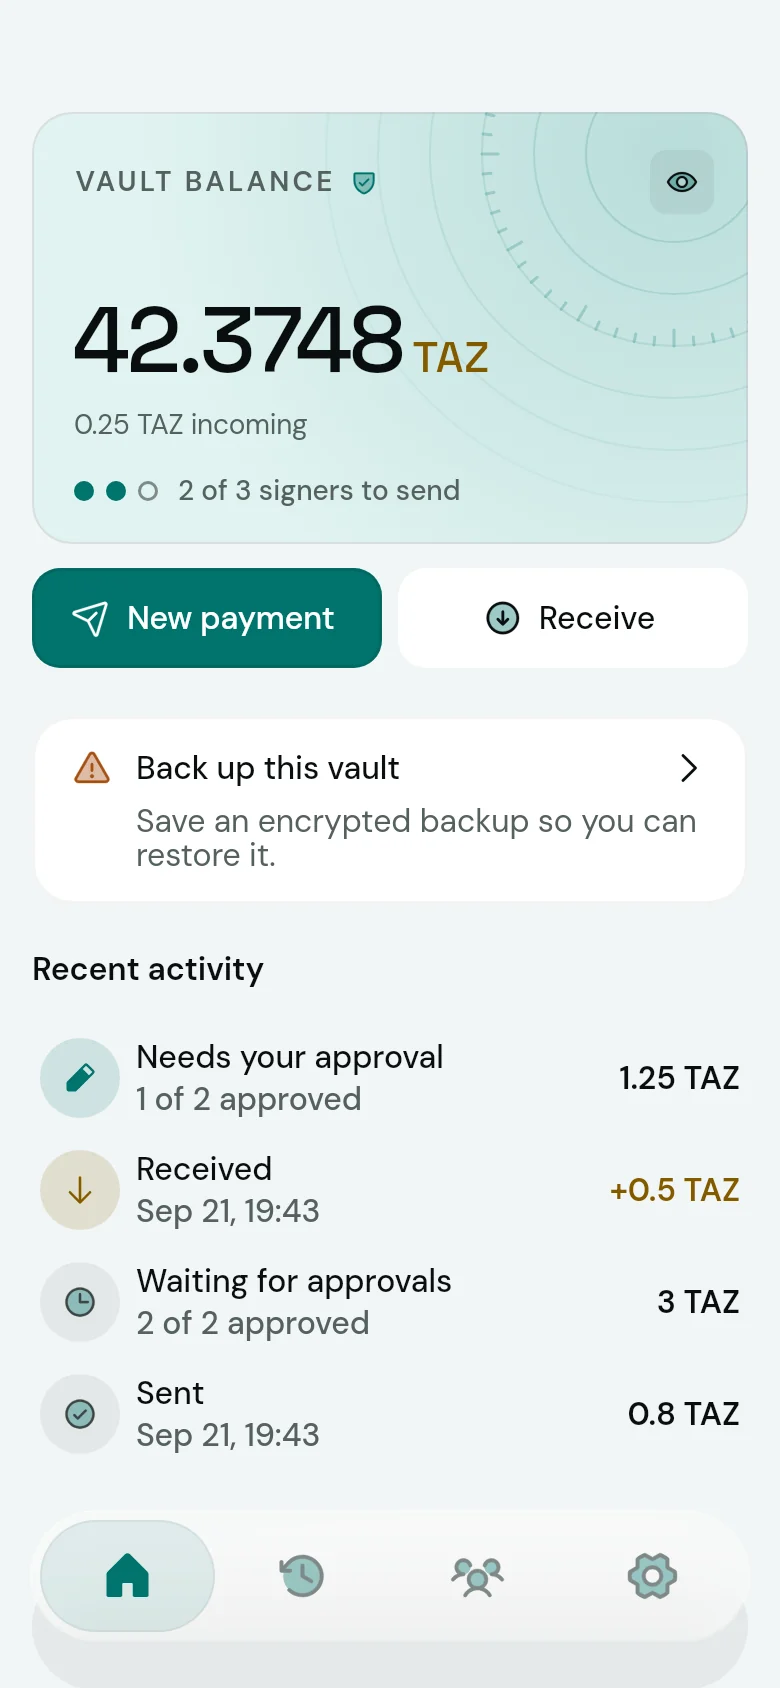
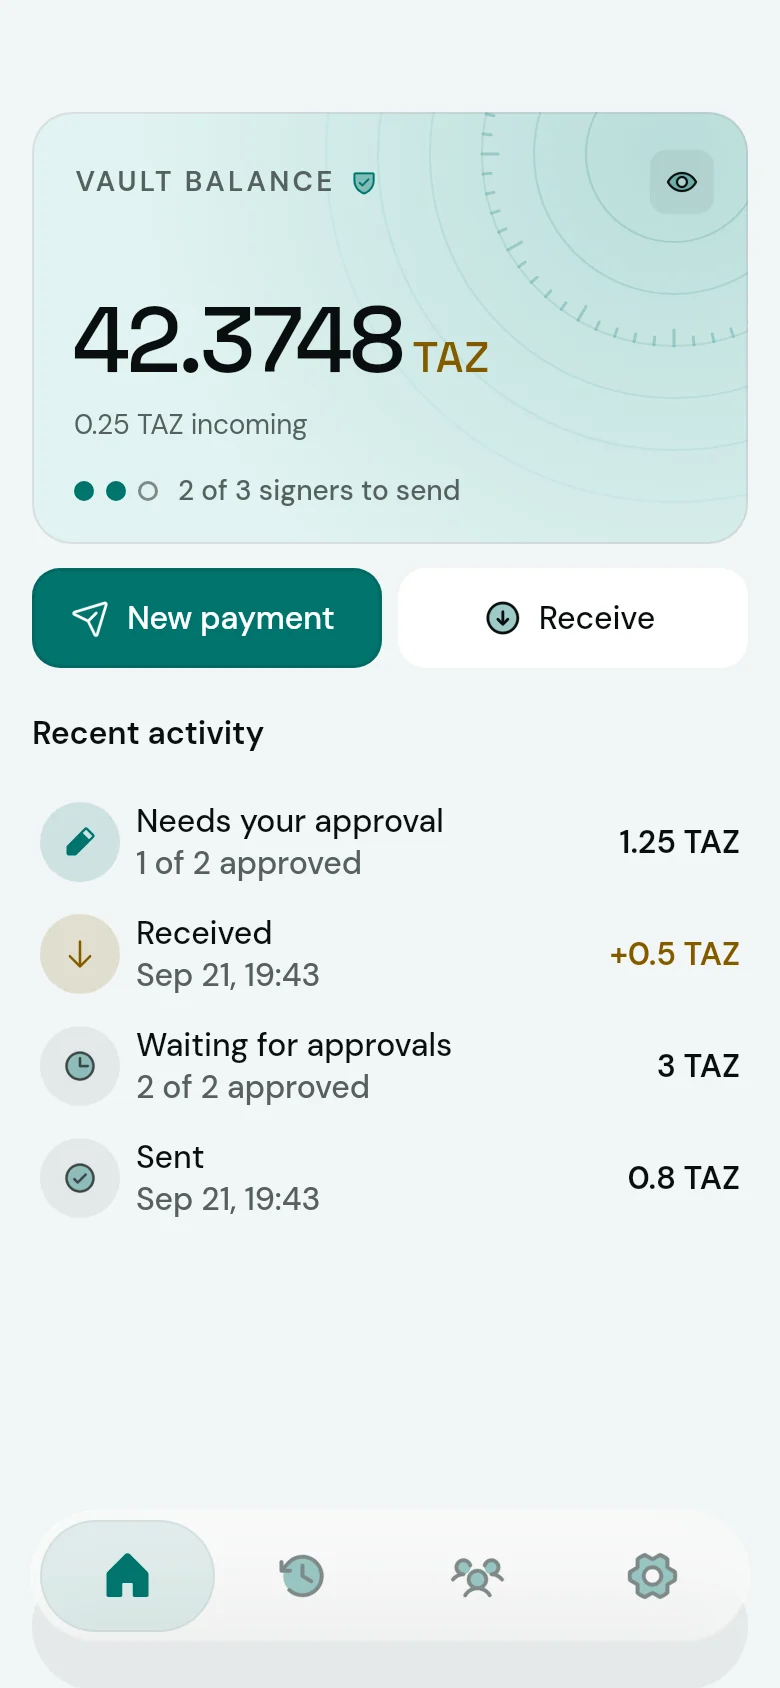
Site: the one-tap flow as live cards, and motion throughout
- Pillars replaced by Notified / One tap / Sent: the app's real
  notification wording, the Approve button with a tap ripple, the sent
  state. Emphasises how fast approving is, and that one tap signs.
- Home mockup without the backup notice (HOME_NOTICE=0 in the render).
- CSS-only motion: scroll-driven reveals (side phones fan out, flow
  cards rise, the idea fills with ink, the feature panel grows, copy and
  cards meet, FAQ cascades, vault drifts, ghost wordmark rises), loops in
  the live cards, hover lifts. Off with prefers-reduced-motion.

diff --git a/infra/site/src/styles/site.css b/infra/site/src/styles/site.css
@@ -286,8 +286,8 @@ code { font-size: 0.95em; }
 .phone.front { width: 320px; }
 .phone.side { width: 272px; margin-bottom: 40px; }
 
-/* Pillars. */
-.pillars {
+/* The one-tap flow: notified, one tap, sent. Live UI in tiles, animated on view. */
+.flow {
   display: grid;
   grid-template-columns: repeat(3, 1fr);
   max-width: var(--width);
@@ -295,20 +295,94 @@ code { font-size: 0.95em; }
   padding: 120px 16px 40px;
   text-align: center;
 }
-.pillars article { padding: 0 36px; }
-.pillars article + article { border-left: 1px solid var(--line); }
-.pillars img {
-  display: block;
-  width: 100%;
-  max-width: 260px;
-  height: auto;
-  aspect-ratio: 5 / 4;
-  object-fit: cover;
+.flow article { padding: 0 32px; }
+.flow article + article { border-left: 1px solid var(--line); }
+.flow h2 { font-size: 22px; letter-spacing: -0.01em; margin: 0 0 6px; }
+.flow article > p { color: var(--text-secondary); font-size: 16px; }
+
+.flow-tile {
+  display: grid;
+  place-items: center;
+  height: 220px;
   margin: 0 auto 28px;
-  border-radius: 24px;
+  max-width: 300px;
+  border-radius: 28px;
+  background: var(--stage);
+  padding: 20px;
+  text-align: left;
+  overflow: hidden;
 }
-.pillars h2 { font-size: 22px; letter-spacing: -0.01em; margin: 0 0 8px; }
-.pillars p { color: var(--text-secondary); font-size: 16px; max-width: 18em; margin: 0 auto; }
+
+.notif {
+  width: 100%;
+  background: #FFFFFF;
+  border-radius: 20px;
+  padding: 14px 16px;
+  box-shadow: 0 12px 30px -16px rgba(0, 40, 38, 0.35);
+  font-size: 13px;
+  line-height: 1.4;
+}
+.notif-app { display: flex; align-items: center; gap: 8px; color: var(--text-secondary); margin-bottom: 6px !important; font-size: 12px; }
+.notif-app time { margin-left: auto; }
+.notif-mark { width: 18px; height: 18px; }
+.notif-title { font-weight: 500; color: var(--text); }
+.notif-body { color: var(--text-secondary); }
+
+.tap { width: 100%; }
+.tap-button {
+  position: relative;
+  display: flex;
+  justify-content: center;
+  align-items: center;
+  gap: 8px;
+  padding: 16px;
+  border-radius: 16px;
+  background: var(--brand);
+  color: var(--brand-label);
+  font-weight: 500;
+  overflow: hidden;
+}
+.tap-ripple {
+  position: absolute;
+  left: 50%;
+  top: 50%;
+  width: 24px;
+  height: 24px;
+  margin: -12px 0 0 -12px;
+  border-radius: 50%;
+  background: rgba(255, 255, 255, 0.45);
+  opacity: 0;
+}
+.tap-note { font-size: 13px; color: var(--text-secondary); text-align: center; margin-top: 12px !important; }
+
+.sent { text-align: center; }
+.sent-check {
+  display: inline-grid;
+  place-items: center;
+  width: 52px;
+  height: 52px;
+  border-radius: 50%;
+  background: var(--card);
+  color: var(--brand);
+  margin-bottom: 12px !important;
+}
+.sent-check .icon { width: 24px; height: 24px; }
+.sent-amount { font-family: var(--display); font-size: 36px; letter-spacing: -0.03em; line-height: 1; }
+.sent-amount span { font-size: 17px; color: var(--value); letter-spacing: 0; }
+.sent-note { font-size: 13px; color: var(--text-secondary); margin-top: 8px !important; }
+
+/* Motion: the notification drops in, the button is tapped over and over, the check pops. */
+.tap-ripple { animation: tap 2.4s ease-out infinite; }
+.tap-button { animation: press 2.4s ease-out infinite; }
+@keyframes tap { 0%, 20% { opacity: 0; transform: scale(0.5); } 24% { opacity: 1; } 60%, 100% { opacity: 0; transform: scale(14); } }
+@keyframes press { 0%, 20%, 34%, 100% { transform: scale(1); } 24% { transform: scale(0.97); } }
+@keyframes drop { from { opacity: 0; transform: translateY(-70%) scale(0.96); } }
+@keyframes pop { 0% { opacity: 0; transform: scale(0.4); } 70% { transform: scale(1.12); } 100% { transform: scale(1); } }
+@supports (animation-timeline: view()) {
+  .notif { animation: drop both var(--rise); animation-timeline: view(); animation-range: entry 10% cover 35%; }
+  .sent-check { animation: pop both var(--rise); animation-timeline: view(); animation-range: entry 20% cover 40%; }
+  .sent-amount, .sent-note { animation: fade both linear; animation-timeline: view(); animation-range: entry 30% cover 40%; }
+}
 
 /* The idea. */
 .vision {
@@ -534,8 +608,8 @@ code { font-size: 0.95em; }
   .phones { gap: 16px; }
   .phone.front { width: 250px; }
   .phone.side { width: 200px; margin-bottom: 28px; }
-  .pillars { grid-template-columns: 1fr; gap: 56px; padding-top: 112px; }
-  .pillars article + article { border-left: 0; }
+  .flow { grid-template-columns: 1fr; gap: 56px; padding-top: 112px; }
+  .flow article + article { border-left: 0; }
   .panel { border-radius: 32px; padding: 88px 20px 24px; margin: 0 12px; }
   .feature { grid-template-columns: 1fr; gap: 40px; padding: 56px 4px; }
   .feature.flip .copy { order: 0; }
@@ -640,7 +714,105 @@ code { font-size: 0.95em; }
 @keyframes fade { from { opacity: 0; } }
 @keyframes rise { from { opacity: 0; transform: translateY(28px); } }
 
+/* More motion. Loops run everywhere; scroll-driven reveals only where the browser has
+   animation-timeline (elsewhere everything is simply shown). All off with reduced motion. */
+
+/* Buttons and links. */
+.pill { transition: transform 0.2s var(--rise), box-shadow 0.2s ease, filter 0.2s ease; }
+.pill:hover { transform: translateY(-2px); box-shadow: 0 12px 24px -12px rgba(0, 115, 108, 0.6); }
+.nav-side a { position: relative; }
+.nav-side a::after {
+  content: "";
+  position: absolute;
+  left: 0;
+  right: 0;
+  bottom: -4px;
+  height: 1.5px;
+  background: currentColor;
+  transform: scaleX(0);
+  transition: transform 0.25s var(--rise);
+}
+.nav-side a:hover::after { transform: scaleX(1); }
+
+/* Live cards in the feature panel. */
+.dots i:nth-child(2) { animation: vote 3.2s ease infinite; }
+@keyframes vote { 0%, 45% { background: transparent; border-color: var(--ink-text); } 55%, 90% { background: #51DDD2; border-color: #51DDD2; } 100% { background: transparent; border-color: var(--ink-text); } }
+.votes .approve { animation: glow 3.2s ease infinite; }
+@keyframes glow { 0%, 40%, 100% { box-shadow: 0 0 0 0 rgba(81, 221, 210, 0); } 50% { box-shadow: 0 0 0 8px rgba(81, 221, 210, 0.18); } }
+.switch::after { animation: flip 4s var(--rise) infinite; }
+.settings p:last-child .switch::after { animation-delay: 2s; }
+@keyframes flip { 0%, 8% { transform: translateX(-16px); } 16%, 100% { transform: translateX(0); } }
+.chain .hidden {
+  background: linear-gradient(90deg, var(--ink-muted) 40%, #F1F5F5 50%, var(--ink-muted) 60%);
+  background-size: 300% 100%;
+  -webkit-background-clip: text;
+  background-clip: text;
+  color: transparent;
+  animation: shimmer 2.8s linear infinite;
+}
+@keyframes shimmer { from { background-position: 100% 0; } to { background-position: 0 0; } }
+.verdict .icon { animation: pop 2.8s var(--rise) infinite; }
+
+@keyframes rise-in { from { opacity: 0; transform: translateY(48px); } }
+@keyframes from-left { from { opacity: 0; transform: translateX(-56px); } }
+@keyframes from-right { from { opacity: 0; transform: translateX(56px); } }
+@keyframes grow { from { transform: scale(0.92); border-radius: 80px; } }
+@keyframes ink { from { background-position: 100% 0; } to { background-position: 0 0; } }
+@keyframes drift { from { transform: translateY(-40%) scale(1.08); } to { transform: translateY(-58%) scale(1); } }
+@keyframes ghost { from { opacity: 0; transform: translateY(40%); } }
+@keyframes side-l { from { transform: translateX(120px) rotate(-6deg); opacity: 0; } }
+@keyframes side-r { from { transform: translateX(-120px) rotate(6deg); opacity: 0; } }
+
+@supports (animation-timeline: view()) {
+  /* The side phones fan out from behind the front one. */
+  .phone.side:first-child { animation: side-l both var(--rise); animation-timeline: view(); animation-range: entry 0% cover 30%; }
+  .phone.side:last-child { animation: side-r both var(--rise); animation-timeline: view(); animation-range: entry 0% cover 30%; }
+
+  /* The flow cards rise one after another. */
+  .flow article { animation: rise-in both var(--rise); animation-timeline: view(); }
+  .flow article:nth-child(1) { animation-range: entry 0% cover 25%; }
+  .flow article:nth-child(2) { animation-range: entry 10% cover 32%; }
+  .flow article:nth-child(3) { animation-range: entry 20% cover 40%; }
+
+  /* The idea fills with ink as it scrolls past. */
+  .statement {
+    background: linear-gradient(90deg, var(--text) 50%, #C3CCCB 50%);
+    background-size: 200% 100%;
+    -webkit-background-clip: text;
+    background-clip: text;
+    color: transparent;
+    animation: ink linear both;
+    animation-timeline: view();
+    animation-range: entry 60% cover 55%;
+  }
+
+  /* The feature panel grows into place; each block's copy and card meet in the middle. */
+  .panel { animation: grow both var(--rise); animation-timeline: view(); animation-range: entry 0% entry 60%; }
+  .feature .copy { animation: from-left both var(--rise); animation-timeline: view(); animation-range: entry 10% cover 35%; }
+  .feature .widget { animation: from-right both var(--rise); animation-timeline: view(); animation-range: entry 10% cover 35%; }
+  .feature.flip .copy { animation-name: from-right; }
+  .feature.flip .widget { animation-name: from-left; }
+
+  /* The FAQ cascades in. */
+  .faq h2, .qa details, .qa .more { animation: rise-in both var(--rise); animation-timeline: view(); animation-range: entry 0% cover 25%; }
+
+  /* The closing card: copy rises, the vault drifts. */
+  .closing-copy { animation: rise-in both var(--rise); animation-timeline: view(); animation-range: entry 10% cover 40%; }
+  @media (min-width: 901px) {
+    .closing-art { animation: drift both linear; animation-timeline: view(); }
+  }
+
+  /* The ghost wordmark rises out of the footer. */
+  .ghost { animation: ghost both var(--rise); animation-timeline: view(); animation-range: entry 0% cover 30%; }
+}
+
 @media (prefers-reduced-motion: reduce) {
   .intro { display: none; }
-  .home .nav-logo, .home .nav-side, .home .hero > *, .home .stage { animation: none; }
+  .home .nav-logo, .home .nav-side, .home .hero > *, .home .stage,
+  .notif, .tap-button, .tap-ripple, .sent-check, .sent-amount, .sent-note,
+  .phone, .flow article, .statement, .panel, .feature .copy, .feature .widget,
+  .faq h2, .qa details, .qa .more, .closing-copy, .closing-art, .ghost,
+  .dots i, .votes .approve, .switch::after, .chain .hidden, .verdict .icon { animation: none; }
+  .statement { color: var(--text); background: none; }
+  .pill, .nav-side a::after { transition: none; }
 }

diff --git a/app/tool/screens/home_render_test.dart b/app/tool/screens/home_render_test.dart
@@ -6,6 +6,7 @@
 //   flutter test tool/screens/home_render_test.dart
 //
 // Output (SCREEN_PREVIEW_OUT, default build/screen_preview/): home_{dark,light}.png.
+// HOME_NOTICE=0 leaves out the backup notice (the website's showcase uses that).
 import 'dart:io';
 import 'dart:ui' as ui;
 
@@ -124,12 +125,14 @@ Widget _home() => Builder(
                     ),
                   ],
                 ),
-                const SizedBox(height: AppSpacing.md),
-                NoticeCard(
-                  title: 'Back up this vault',
-                  body: 'Save an encrypted backup so you can restore it.',
-                  onTap: () {},
-                ),
+                if (_showNotice) ...[
+                  const SizedBox(height: AppSpacing.md),
+                  NoticeCard(
+                    title: 'Back up this vault',
+                    body: 'Save an encrypted backup so you can restore it.',
+                    onTap: () {},
+                  ),
+                ],
                 const SizedBox(height: AppSpacing.md),
                 Text(
                   'Recent activity',
@@ -196,6 +199,8 @@ Widget _home() => Builder(
     );
   },
 );
+
+final _showNotice = Platform.environment['HOME_NOTICE'] != '0';
 
 void main() {
   testWidgets('render home parts', (tester) async {

diff --git a/infra/site/assets.py b/infra/site/assets.py
@@ -1,6 +1,6 @@
 """Regenerates the site's images and web fonts from the app (run from the repo root).
 
-    cd app && flutter test tool/screens/ && flutter test tool/illustrations/preview_test.dart
+    cd app && HOME_NOTICE=0 flutter test tool/screens/ && flutter test tool/illustrations/preview_test.dart
     python3 infra/site/assets.py          # needs: pip install pillow fonttools brotli
 
 Images: the app's own renders (fake data, app/build/screen_preview/) and illustrations
@@ -28,11 +28,6 @@ CROPS = [
     ("phone_home", "screen_preview/home", (0, 0, 780, 1688)),
     ("phone_review", "screen_preview/proposal_review", (0, 0, 780, 1688)),
     ("phone_sent", "screen_preview/proposal_sent", (0, 0, 780, 1688)),
-    # Pillar art (illustrations are 1080 wide), trimmed to the scene; shown as 5:4 tiles.
-    ("art_gate", "illustration_preview/create_stones", (190, 0, 890, 560)),
-    ("art_seal", "illustration_preview/backup_seal", (190, 0, 890, 560)),
-    # Wider than 5:4, so it's padded at the top with its own sky colour (see screens()).
-    ("art_ledger", "illustration_preview/empty_ledger", (170, 0, 910, 440)),
     # The vault door with its keys, behind the closing call to action (a dark card, so
     # the dark render).
     ("art_vault", "illustration_preview/welcome_vault", (0, 120, 1080, 1240), "dark"),

diff --git a/docs/site.md b/docs/site.md
@@ -3,6 +3,19 @@
 The landing page (`infra/site/src/pages/index.astro`) follows this brief. Keep it current
 when the page changes.
 
+## Decisions (2026-10-01, fourth round)
+
+- The pillars are now the **one-tap flow** (Notified, One tap, Sent) as live HTML cards:
+  the app's real notification wording ("<vault>: payment needs your approval"), the
+  Approve button with a looping tap ripple, the sent state. The point is speed and
+  one-tap signing, Zafe's most distinctive feature. The onboarding illustrations went.
+- The Home mockup has no backup notice (`HOME_NOTICE=0` for the render).
+- **More motion**, CSS only: scroll-driven reveals where `animation-timeline` exists (side
+  phones fan out, flow cards rise, the idea fills with ink, the panel grows, feature copy
+  and cards meet, FAQ cascades, the vault drifts, the ghost wordmark rises); loops in the
+  live cards (a vote dot fills, switches flip, "encrypted" shimmers); hover lifts. All off
+  with `prefers-reduced-motion`; without scroll timelines everything is simply shown.
+
 ## Decisions (2026-10-01, third round)
 
 - **Light only.** No dark mode anywhere on the site (`color-scheme: light`); `assets.py`
